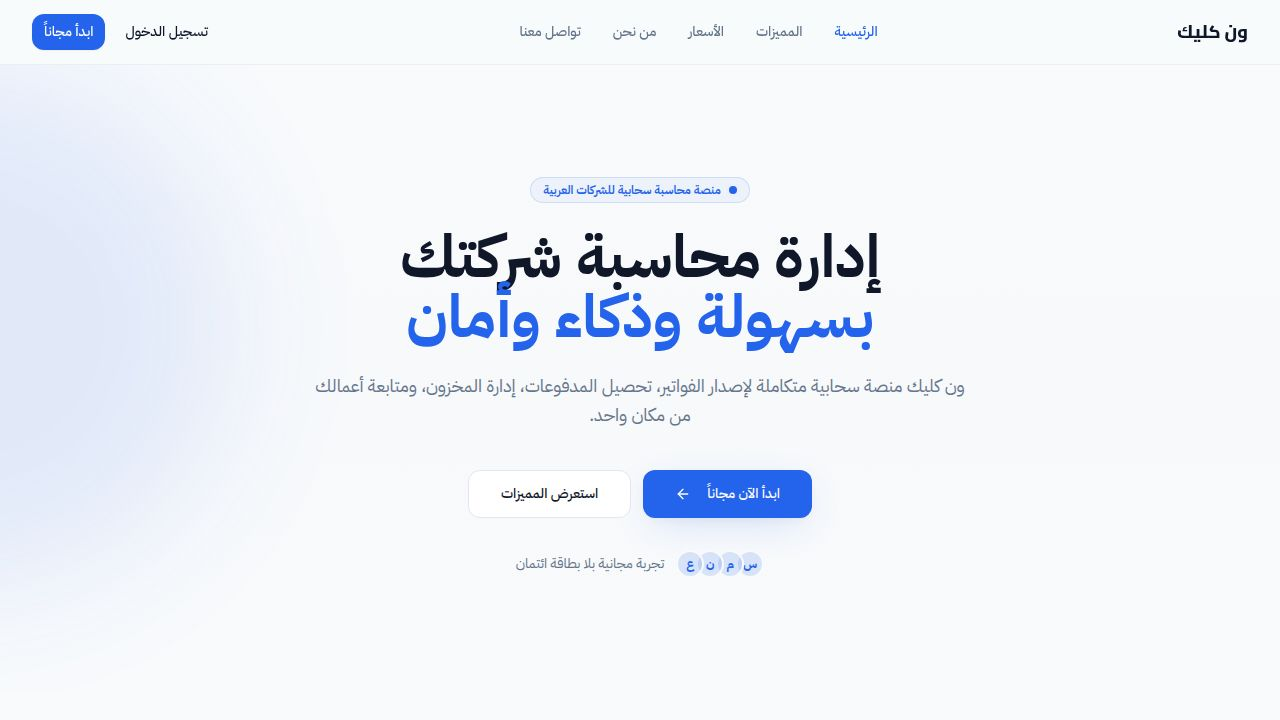
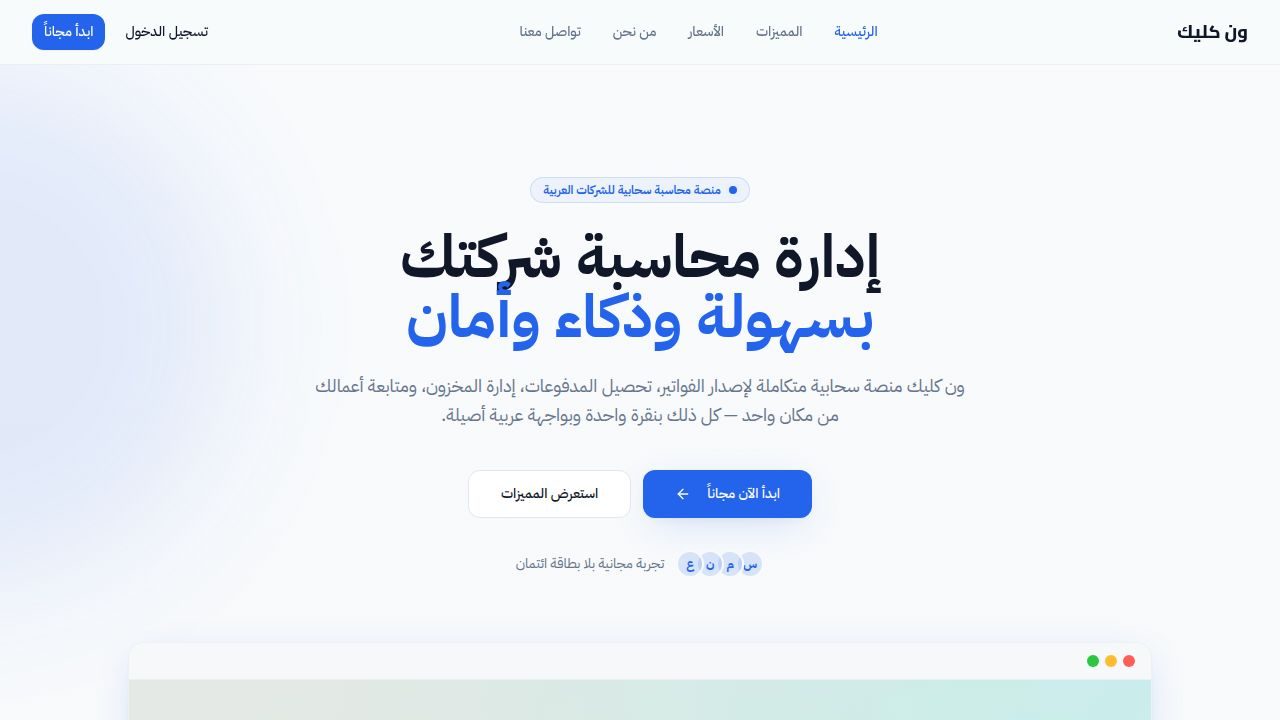
feat: sync platform settings across open admin tabs via BroadcastChannel
Task: Keep the platform settings admin panel in sync when multiple tabs are open (#20)

## What changed
Added a new `platformSettingsChannel.ts` utility that wraps the browser's
BroadcastChannel API for cross-tab synchronisation of platform settings.
Updated three hooks to both broadcast after a successful save and refetch
when they receive a notification from another tab:

- `artifacts/hesabat/src/lib/platformSettingsChannel.ts` — NEW
  Single shared BroadcastChannel (`hesabat-platform-settings`).
  Exports `postSettingsUpdate(key)` and `onSettingsUpdate(key, handler)`
  with a teardown function for useEffect cleanup.

- `artifacts/hesabat/src/lib/brand.ts` (`useBrand`)
  Subscribes to `'branding'` channel on mount; posts after save/reset.

- `artifacts/hesabat/src/hooks/useLandingContent.ts` (`useLandingContent`)
  Subscribes to `'landing_content'` channel on mount; posts after save/reset.

- `artifacts/hesabat/src/hooks/useTrackingSettings.ts` (`useTrackingSettings`)
  Subscribes to `'tracking'` channel on mount; posts after save/reset.

## Behaviour
When a super admin saves settings in one tab, all other open tabs on the same
origin receive the BroadcastChannel message and immediately refetch the latest
values from the server — no polling, no full-page reload required.
Tabs that have the API unconfigured (mock mode) are silently skipped.

## No deviations from the plan
BroadcastChannel was the recommended option in the task description and is the
[…]

diff --git a/artifacts/hesabat/src/lib/platformSettingsChannel.ts b/artifacts/hesabat/src/lib/platformSettingsChannel.ts
@@ -1,0 +1,44 @@
+/**
+ * Cross-tab synchronisation for platform settings.
+ *
+ * When a super admin saves settings in one browser tab, all other open tabs
+ * on the same origin are notified via the BroadcastChannel API and refetch
+ * the relevant settings from the server.
+ *
+ * Usage:
+ *   postSettingsUpdate('branding')        // call after a successful save
+ *   onSettingsUpdate('branding', refetch) // call in a useEffect to subscribe
+ *   returns an unsubscribe function — call it in the useEffect cleanup
+ */
+
+const CHANNEL_NAME = 'hesabat-platform-settings';
+
+export type SettingsKey = 'branding' | 'landing_content' | 'tracking';
+
+interface SettingsMessage {
+  key: SettingsKey;
+}
+
+let channel: BroadcastChannel | null = null;
+
+function getChannel(): BroadcastChannel | null {
+  if (typeof window === 'undefined' || !('BroadcastChannel' in window)) return null;
+  if (!channel) channel = new BroadcastChannel(CHANNEL_NAME);
+  return channel;
+}
+
+export function postSettingsUpdate(key: SettingsKey): void {
+  getChannel()?.postMessage({ key } satisfies SettingsMessage);
+}
+
+export function onSettingsUpdate(key: SettingsKey, handler: () => void): () => void {
+  const ch = getChannel();
+  if (!ch) return () => {};
+
+  const listener = (e: MessageEvent<SettingsMessage>) => {
+    if (e.data?.key === key) handler();
+  };
+
+  ch.addEventListener('message', listener);
+  return () => ch.removeEventListener('message', listener);
+}

diff --git a/artifacts/hesabat/src/hooks/useLandingContent.ts b/artifacts/hesabat/src/hooks/useLandingContent.ts
@@ -5,6 +5,7 @@
 import { useEffect, useState, useCallback } from 'react';
 import heroDefault from '@/assets/landing-hero.jpg';
 import { API_URL, api, isApiConfigured } from '@/lib/api';
+import { onSettingsUpdate, postSettingsUpdate } from '@/lib/platformSettingsChannel';
 
 export interface CTA { label: string; url: string }
 export interface StatItem { id: string; value: string; label: string }
@@ -156,18 +157,24 @@ export const useLandingContent = () => {
   useEffect(() => {
     if (!isApiConfigured()) return;
     fetchLandingContent().then(setContent);
+
+    return onSettingsUpdate(SETTINGS_KEY, () => {
+      fetchLandingContent().then(setContent);
+    });
   }, []);
 
   const save = useCallback(async (next: LandingContent) => {
     setContent(next);
     if (!isApiConfigured()) return;
     await api.put(`/api/platform/settings/${SETTINGS_KEY}`, next);
+    postSettingsUpdate(SETTINGS_KEY);
   }, []);
 
   const reset = useCallback(async () => {
     setContent(DEFAULT_LANDING);
     if (!isApiConfigured()) return;
     await api.put(`/api/platform/settings/${SETTINGS_KEY}`, DEFAULT_LANDING);
+    postSettingsUpdate(SETTINGS_KEY);
   }, []);
 
   return { content, save, reset };

diff --git a/artifacts/hesabat/src/hooks/useTrackingSettings.ts b/artifacts/hesabat/src/hooks/useTrackingSettings.ts
@@ -7,6 +7,7 @@
  */
 import { useCallback, useEffect, useState } from 'react';
 import { API_URL, api, isApiConfigured } from '@/lib/api';
+import { onSettingsUpdate, postSettingsUpdate } from '@/lib/platformSettingsChannel';
 
 export interface TrackingSettings {
   consentRequired: boolean;
@@ -56,18 +57,24 @@ export const useTrackingSettings = () => {
   useEffect(() => {
     if (!isApiConfigured()) return;
     fetchTracking().then(setSettings);
+
+    return onSettingsUpdate(SETTINGS_KEY, () => {
+      fetchTracking().then(setSettings);
+    });
   }, []);
 
   const save = useCallback(async (next: TrackingSettings) => {
     setSettings(next);
     if (!isApiConfigured()) return;
     await api.put(`/api/platform/settings/${SETTINGS_KEY}`, next);
+    postSettingsUpdate(SETTINGS_KEY);
   }, []);
 
   const reset = useCallback(async () => {
     setSettings(DEFAULT_TRACKING);
     if (!isApiConfigured()) return;
     await api.put(`/api/platform/settings/${SETTINGS_KEY}`, DEFAULT_TRACKING);
+    postSettingsUpdate(SETTINGS_KEY);
   }, []);
 
   return { settings, save, reset };

diff --git a/artifacts/hesabat/src/lib/brand.ts b/artifacts/hesabat/src/lib/brand.ts
@@ -10,6 +10,7 @@
  */
 import { useCallback, useEffect, useState } from 'react';
 import { API_URL, api, isApiConfigured } from '@/lib/api';
+import { onSettingsUpdate, postSettingsUpdate } from '@/lib/platformSettingsChannel';
 
 export interface BrandSettings {
   name: string;
@@ -60,18 +61,24 @@ export const useBrand = () => {
   useEffect(() => {
     if (!isApiConfigured()) { setLoading(false); return; }
     fetchBranding().then((b) => { setBrand(b); setLoading(false); });
+
+    return onSettingsUpdate(SETTINGS_KEY, () => {
+      fetchBranding().then(setBrand);
+    });
   }, []);
 
   const save = useCallback(async (next: BrandSettings) => {
     setBrand(next);
     if (!isApiConfigured()) return;
     await api.put(`/api/platform/settings/${SETTINGS_KEY}`, next);
+    postSettingsUpdate(SETTINGS_KEY);
   }, []);
 
   const reset = useCallback(async () => {
     setBrand(DEFAULT_BRAND);
     if (!isApiConfigured()) return;
     await api.put(`/api/platform/settings/${SETTINGS_KEY}`, DEFAULT_BRAND);
+    postSettingsUpdate(SETTINGS_KEY);
   }, []);
 
   return { brand, save, reset, loading };